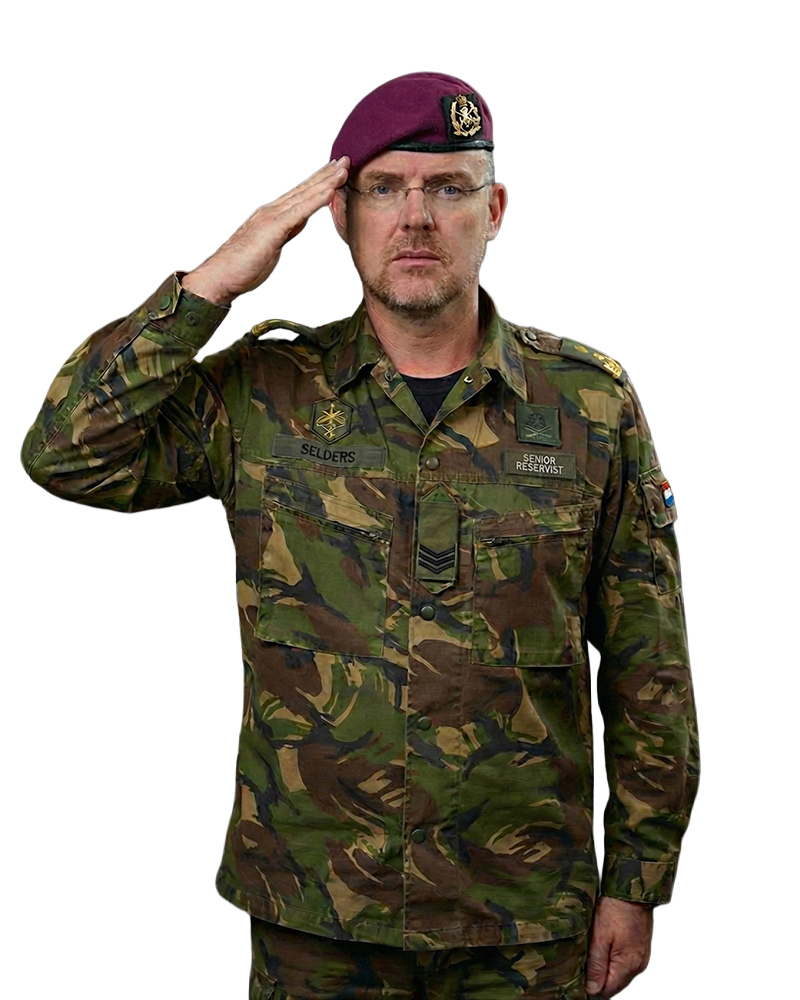
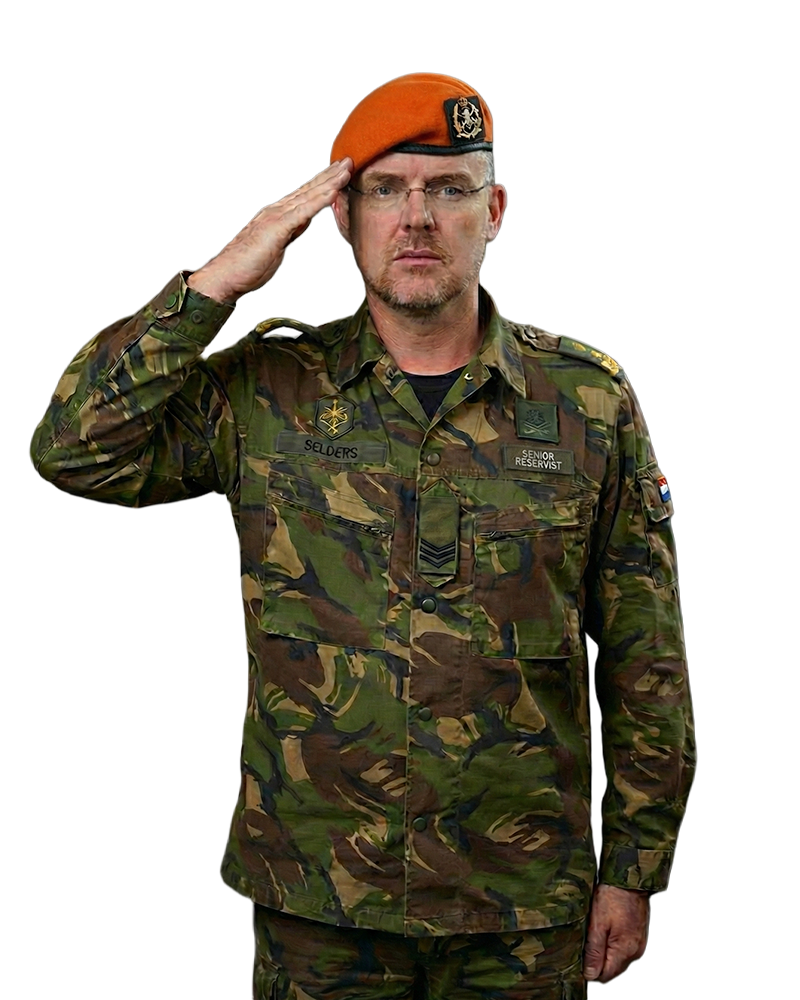
Move hero images 50px outward + update images

Changed region(s): [[0.0, 0.062, 0.875, 1.0]]

diff --git a/app/page.tsx b/app/page.tsx
@@ -6,7 +6,7 @@ export default function Home() {
       {/* Hero Section */}
       <section className="relative bg-gradient-to-b from-primary to-primary-light text-white py-20 px-6 overflow-hidden min-h-[400px] md:min-h-[500px]">
         {/* Linker figuur - burger Tim - uitgelijnd aan onderkant section */}
-        <div className="hidden md:block absolute bottom-0 left-[calc(50%-580px)] w-[336px] lg:w-[420px]">
+        <div className="hidden md:block absolute bottom-0 left-[calc(50%-630px)] w-[336px] lg:w-[420px]">
           <Image
             src="/images/burger-tim.png"
             alt="Tim in burgerkledij"
@@ -18,7 +18,7 @@ export default function Home() {
         </div>
 
         {/* Rechter figuur - reservist Tim - uitgelijnd aan onderkant section */}
-        <div className="hidden md:block absolute bottom-0 right-[calc(50%-580px)] w-[336px] lg:w-[420px]">
+        <div className="hidden md:block absolute bottom-0 right-[calc(50%-630px)] w-[336px] lg:w-[420px]">
           <Image
             src="/images/reservist-tim.png"
             alt="Tim in reservistenuniform"
